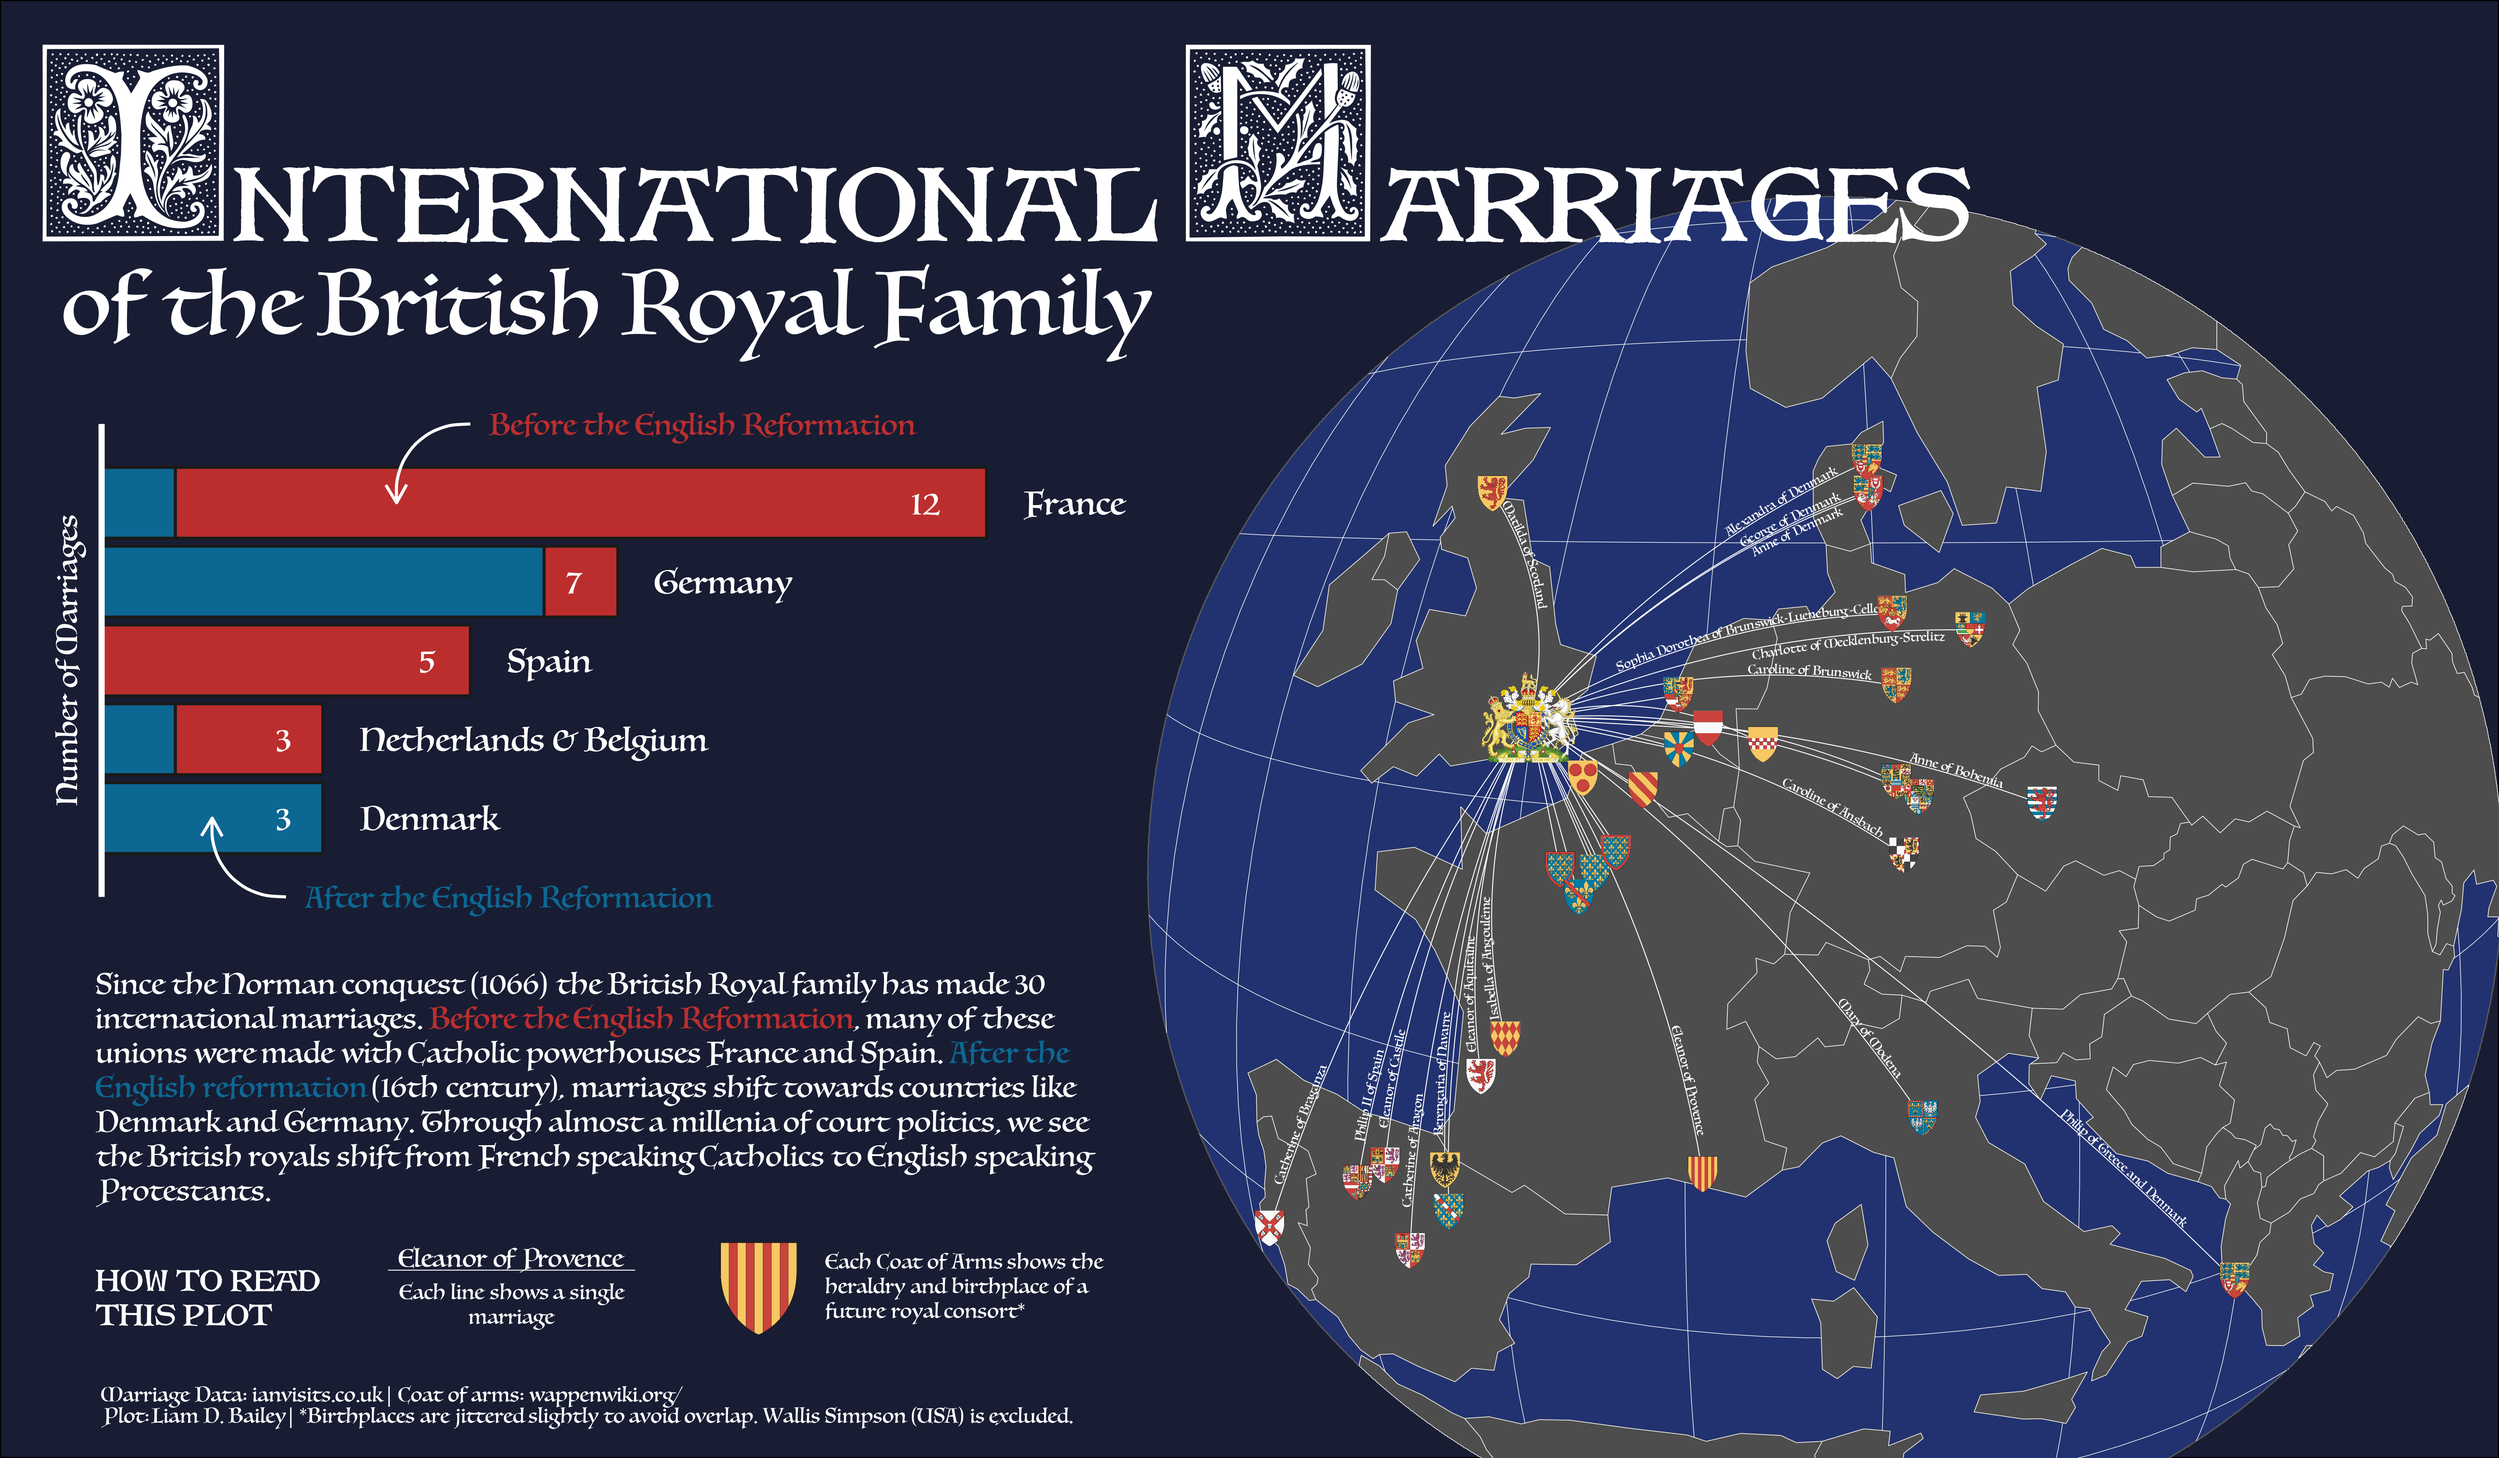
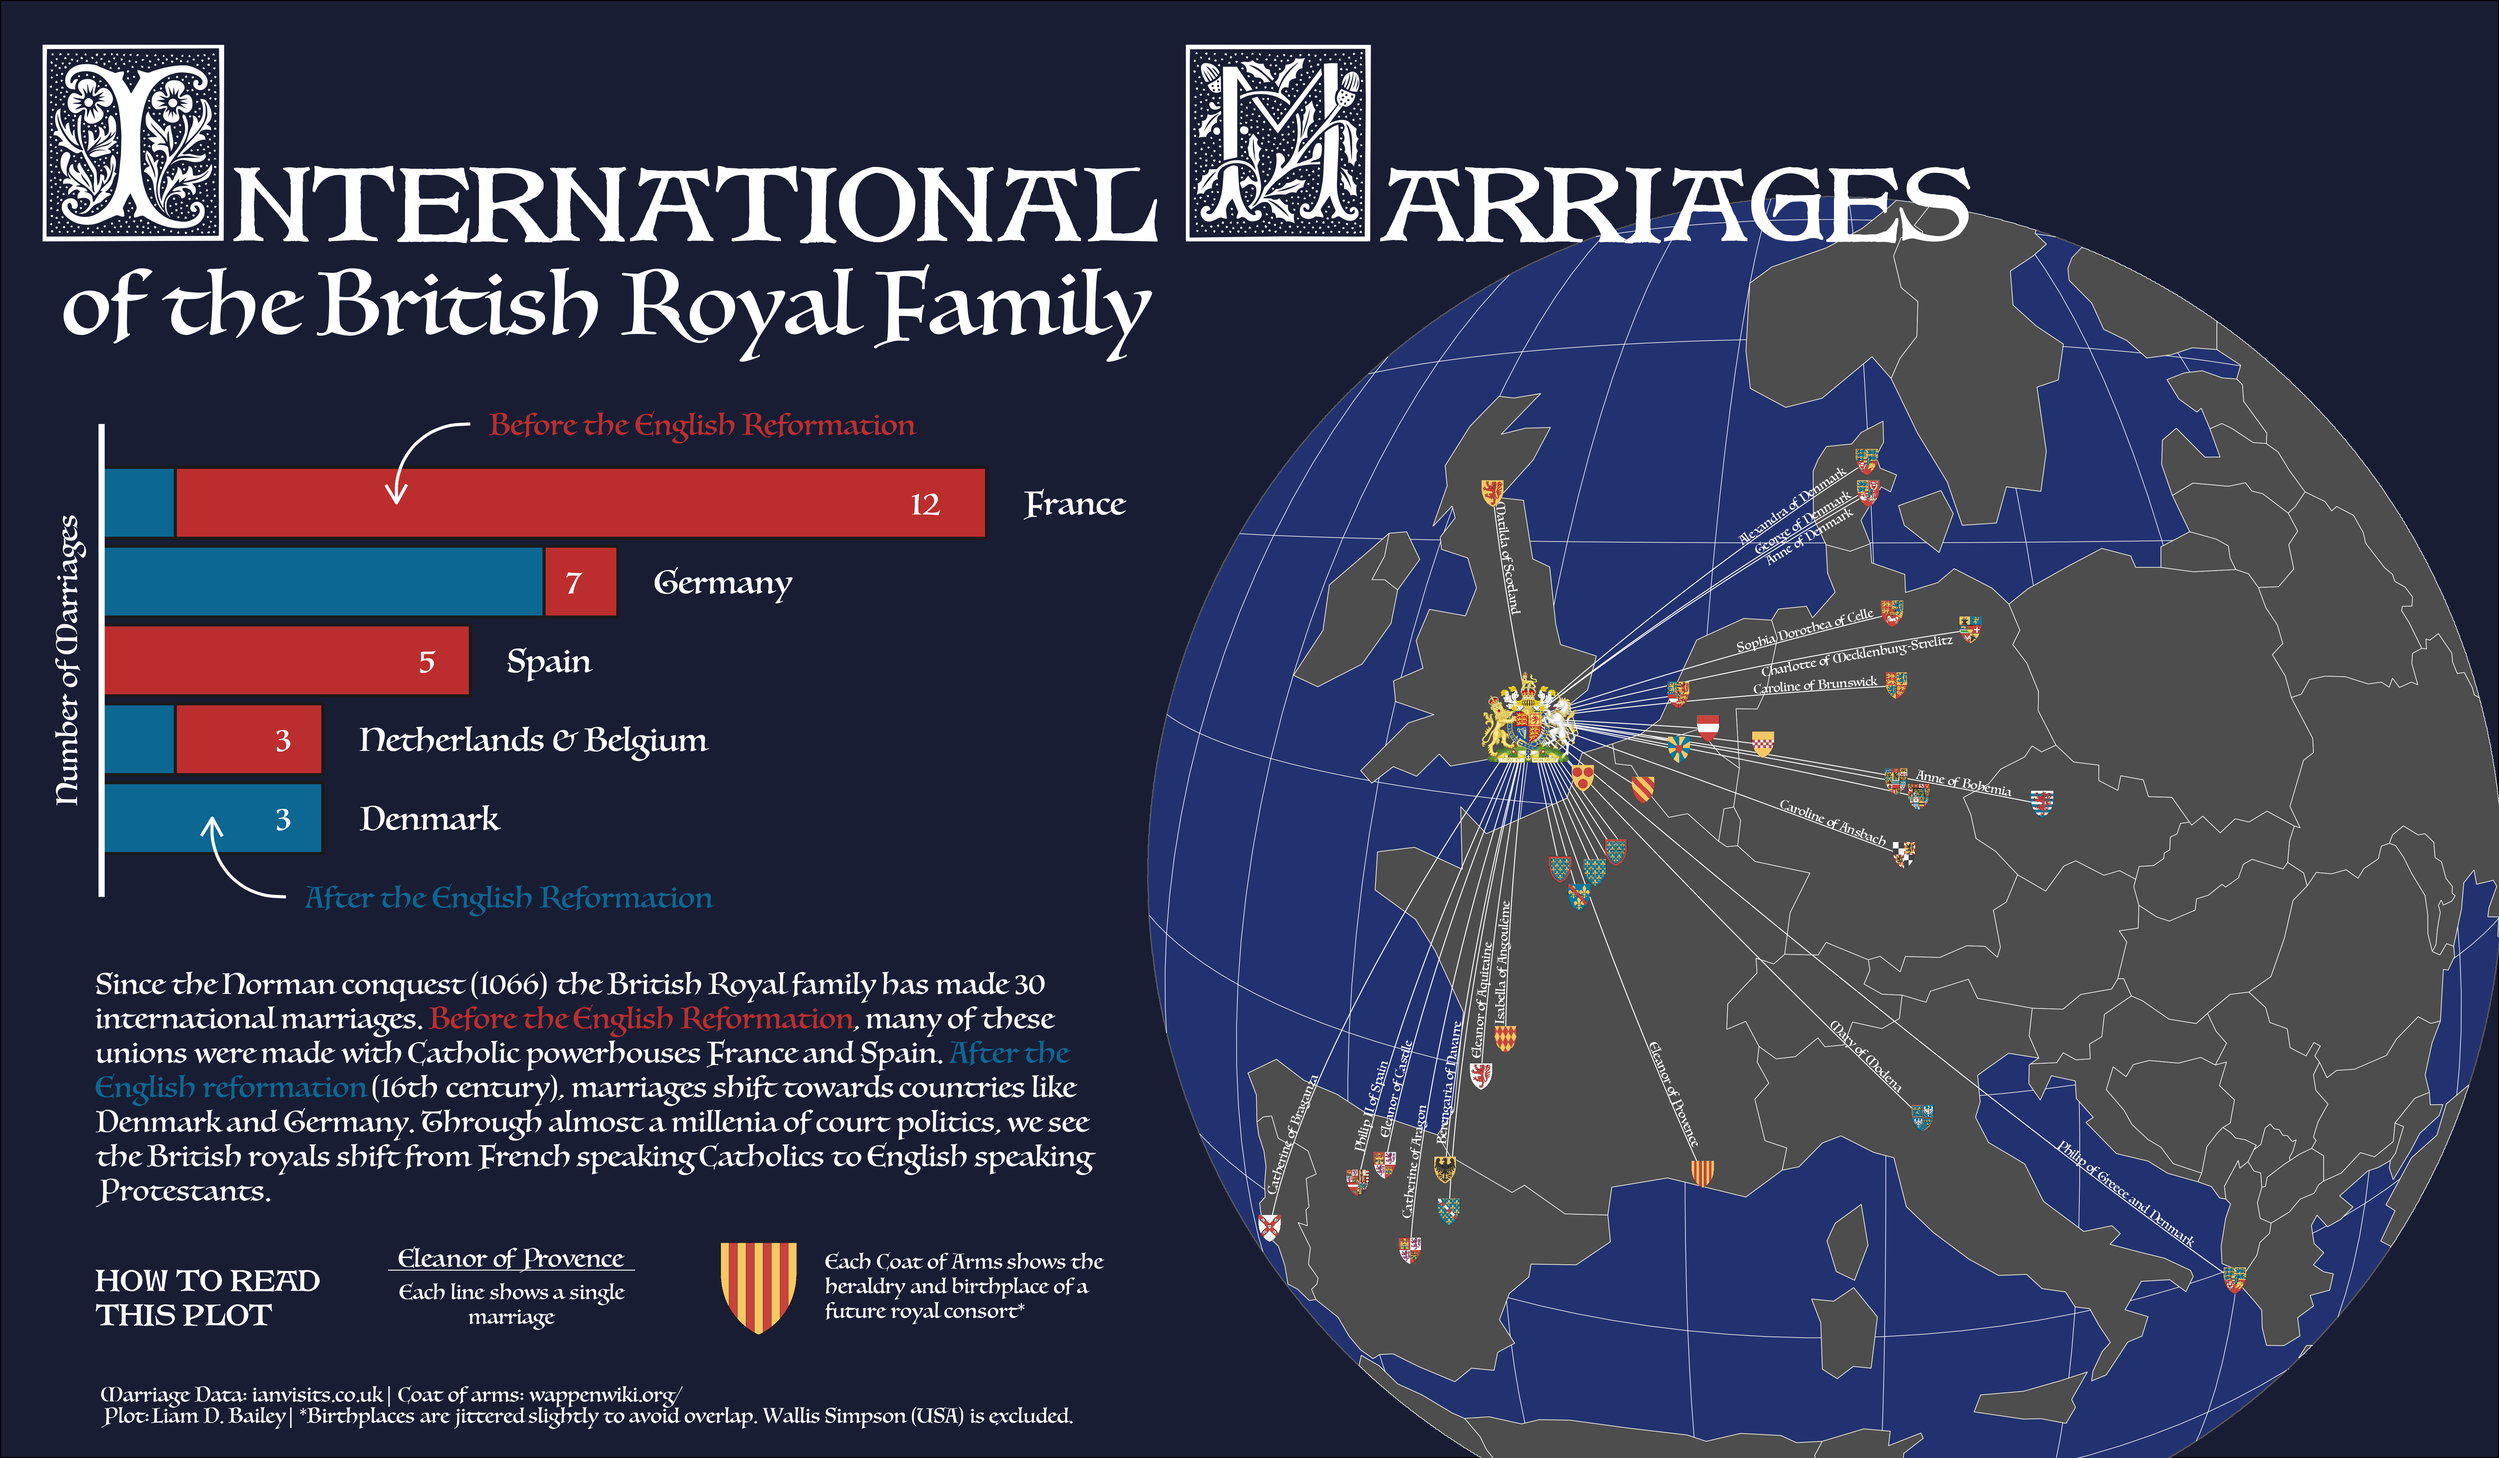
Add example of Azimuthal plot

diff --git a/_site/posts/2024_08_31-azimuthalproj/index.html b/_site/posts/2024_08_31-azimuthalproj/index.html
@@ -204,6 +204,7 @@ pre > code.sourceCode > span > a:first-child::before { text-decoration: underlin
   <li><a href="#near-side-general-perspective-or-vertical-perspective" id="toc-near-side-general-perspective-or-vertical-perspective" class="nav-link" data-scroll-target="#near-side-general-perspective-or-vertical-perspective">Near-side general perspective (or Vertical perspective)</a></li>
   <li><a href="#general-perspective-or-tilted-perspective" id="toc-general-perspective-or-tilted-perspective" class="nav-link" data-scroll-target="#general-perspective-or-tilted-perspective">General perspective (or Tilted perspective)</a></li>
   </ul></li>
+  <li><a href="#the-practical-an-example-using-azimuthal-projection" id="toc-the-practical-an-example-using-azimuthal-projection" class="nav-link" data-scroll-target="#the-practical-an-example-using-azimuthal-projection">The practical: An example using azimuthal projection</a></li>
   </ul>
 </nav>
     </div>
@@ -563,9 +564,21 @@ Note
 <p><img src="index_files/figure-html/unnamed-chunk-12-1.png" class="img-fluid" width="672"></p>
 </div>
 </div>
-
-
+<p><br></p>
 </section>
+</section>
+<section id="the-practical-an-example-using-azimuthal-projection" class="level2">
+<h2 data-anchor-id="the-practical-an-example-using-azimuthal-projection">The practical: An example using azimuthal projection</h2>
+<hr>
+<p>In the below graph, I used data from <a href="https://github.com/rfordatascience/tidytuesday/blob/master/data/2024/2024-08-20/readme.md">TidyTuesday Week 34</a> to plot a <em>network</em> of British marriages across Europe. In this case, we have a clear central focal point for our plot, the city of London. I used the Near-side general perspective to create a satellite view of London and European surroundings and added lines (estimated using greater circle geometry) to link London to the home city of each new consort. Check out the plot <a href="https://github.com/LiamDBailey/TidyTuesday/blob/ae0dad3d735aef17870b473390f2a566a69883e2/plots/2024/Week34_marriages.png">here</a> or the code <a href="https://github.com/LiamDBailey/TidyTuesday/blob/ae0dad3d735aef17870b473390f2a566a69883e2/R/2024/Week34.qmd">here</a>.</p>
+<div class="quarto-figure quarto-figure-center">
+<figure class="figure">
+<p><img src="../../inst/img/dataviz/Week34_marriages.png" class="img-fluid figure-img"></p>
+<figcaption class="figure-caption">International Marriages of the British Royal Family</figcaption>
+</figure>
+</div>
+
+
 </section>
 
 </main> <!-- /main -->
